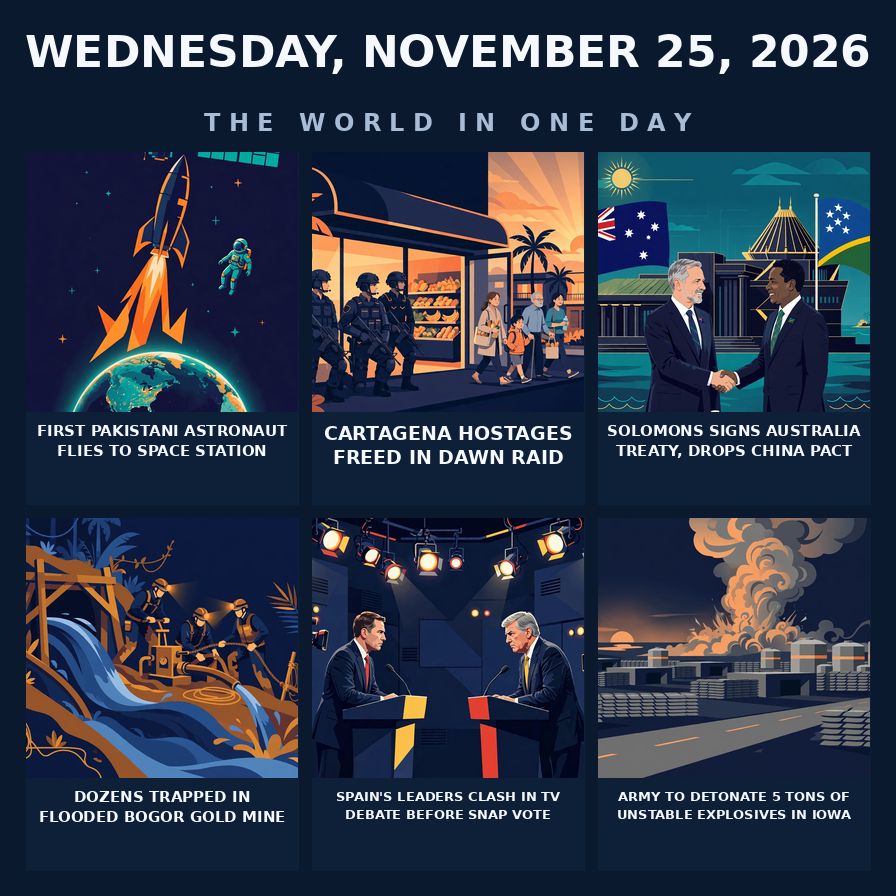
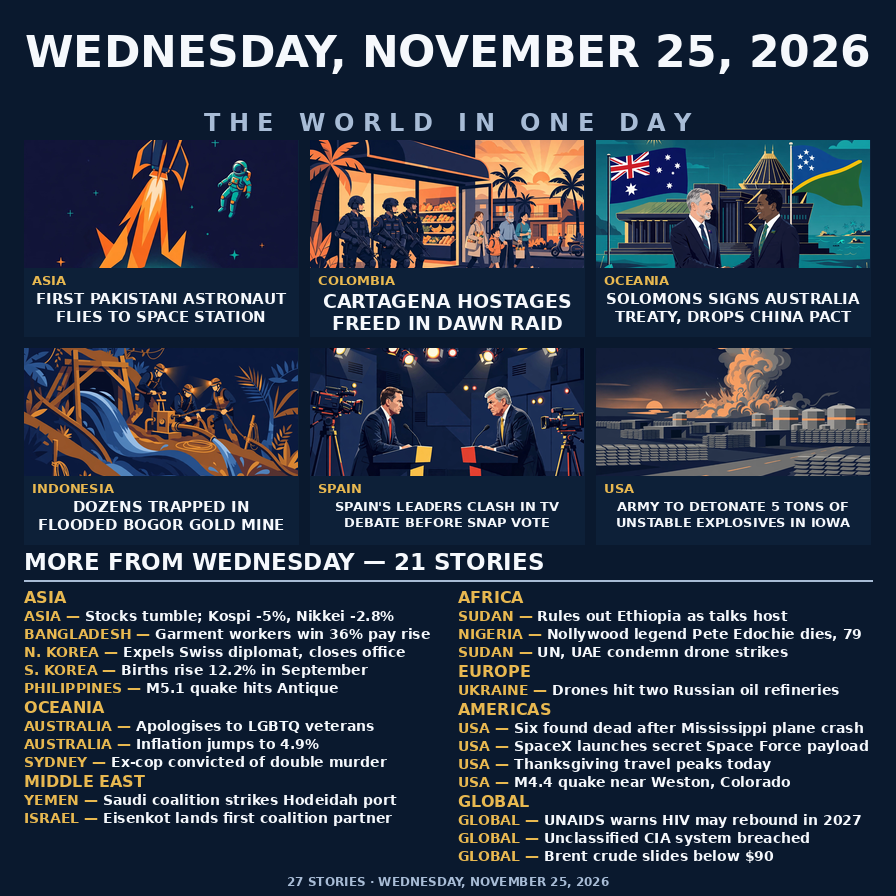
news-image-20261125: dense front page v2, 27 stories

diff --git a/main.ts b/main.ts
@@ -1,10 +1,13 @@
 // news-image-20261125 — Wednesday 25 November 2026: the world in one day.
 // Entry program (Node 22, standard library only). The poster is entry.png,
-// drawn from six verified 25 November stories — Shenzhou-24's first Pakistani
-// astronaut, the Cartagena hostage rescue, the Solomons–Australia treaty, the
-// flooded Bogor gold mine, Spain's pre-election TV debate, and the Iowa
-// explosives detonation — and this program copies it to the grader's output
-// directory, byte for byte, on every run.
+// a dense front page drawn from 27 verified 25 November stories: six heroes —
+// Shenzhou-24's first Pakistani astronaut, the Cartagena hostage rescue, the
+// Solomons–Australia treaty, the flooded Bogor gold mine, Spain's pre-election
+// TV debate, and the Iowa explosives detonation — plus 21 more stories from
+// every region, from Asian markets and a Swiss diplomat's expulsion in
+// Pyongyang to a Nollywood legend's death and a classified Space Force launch.
+// This program copies it to the grader's output directory, byte for byte,
+// on every run.
 import { copyFileSync, mkdirSync } from 'node:fs';
 import { join } from 'node:path';
 

diff --git a/README.md b/README.md
@@ -4,7 +4,7 @@
 [![rank](https://make.fun/badge/news-image-20261125/ariana889/news-image-20261125/rank.svg)](https://make.fun/bounty/news-image-20261125/leaderboard?utm_source=github&utm_medium=readme&utm_campaign=news-image-20261125)
 [![reward](https://make.fun/badge/news-image-20261125/ariana889/news-image-20261125/reward.svg)](https://make.fun/bounty/news-image-20261125?utm_source=github&utm_medium=readme&utm_campaign=news-image-20261125)
 
-One image that sums up the world news of Wednesday 25 November 2026: China launching Shenzhou-24 with the first Pakistani astronaut to visit the Tiangong space station; Colombian special forces freeing the last hostages from a Cartagena supermarket in a dawn raid; the Solomon Islands signing a security treaty with Australia and dropping its China pact; dozens of miners trapped by floodwater in an illegal gold mine near Bogor, Indonesia; Spain's leaders facing off in a televised debate days before a snap election; and the US Army preparing to detonate five tons of unstable explosives at an Iowa munitions plant. The repository holds the image as `entry.png`; `main.ts` copies it to the output directory unchanged.
+One image that sums up the world news of Wednesday 25 November 2026 — a dense front page of 27 stories: China launching Shenzhou-24 with the first Pakistani astronaut to visit the Tiangong space station; Colombian special forces freeing the last hostages from a Cartagena supermarket in a dawn raid; the Solomon Islands signing a security treaty with Australia and dropping its China pact; dozens of miners trapped by floodwater in an illegal gold mine near Bogor, Indonesia; Spain's leaders facing off in a televised debate days before a snap election; and the US Army preparing to detonate five tons of unstable explosives at an Iowa munitions plant — plus 21 more verified stories from every region, from tumbling Asian stocks and a Swiss diplomat's expulsion from Pyongyang to a Nollywood legend's death, a Sydney double-murder verdict, and a classified Space Force launch. The repository holds the image as `entry.png`; `main.ts` copies it to the output directory unchanged.
 
 Every headline was verified against two or more independent sources before drawing; where sources disagreed on a figure, the poster uses the wording all of them support.
 
@@ -16,6 +16,16 @@ Every headline was verified against two or more independent sources before drawi
 4. **Dozens trapped in flooded Bogor gold mine** — floodwater fills two illegal shafts; rescue under way as the news breaks.
 5. **Spain's leaders clash in TV debate before snap vote** — Sánchez meets Feijóo days before the 29 November election.
 6. **Army to detonate 5 tons of unstable explosives in Iowa** — 68 drums of degraded lead azide, residents near the plant urged to leave.
+
+## 21 more stories (one line each, grouped by region)
+
+- **Asia:** stocks tumble (Kospi −5%, Nikkei −2.8%); Bangladesh garment workers win a 36% pay rise; North Korea expels a Swiss diplomat; South Korea births rise 12.2% in September; M5.1 quake hits Antique, Philippines.
+- **Oceania:** Australia apologises to LGBTQ veterans; inflation jumps to 4.9%; a Sydney jury convicts ex-police officer Beau Lamarre-Condon of double murder.
+- **Middle East:** Saudi-led coalition strikes Hodeidah port; Eisenkot lands his first coalition partner.
+- **Africa:** Sudan rules out Ethiopia as peace-talks host; Nollywood legend Pete Edochie dies at 79; the UN and UAE condemn drone strikes on Khartoum.
+- **Europe:** Ukrainian drones hit two Russian oil refineries in Samara.
+- **Americas:** six found dead after a Mississippi plane crash; SpaceX launches a classified Space Force payload; Thanksgiving travel peaks; M4.4 quake near Weston, Colorado.
+- **Global:** UNAIDS warns HIV infections may rebound in 2027; an unclassified CIA system is breached; Brent crude slides below $90.
 
 ## Run it
 
